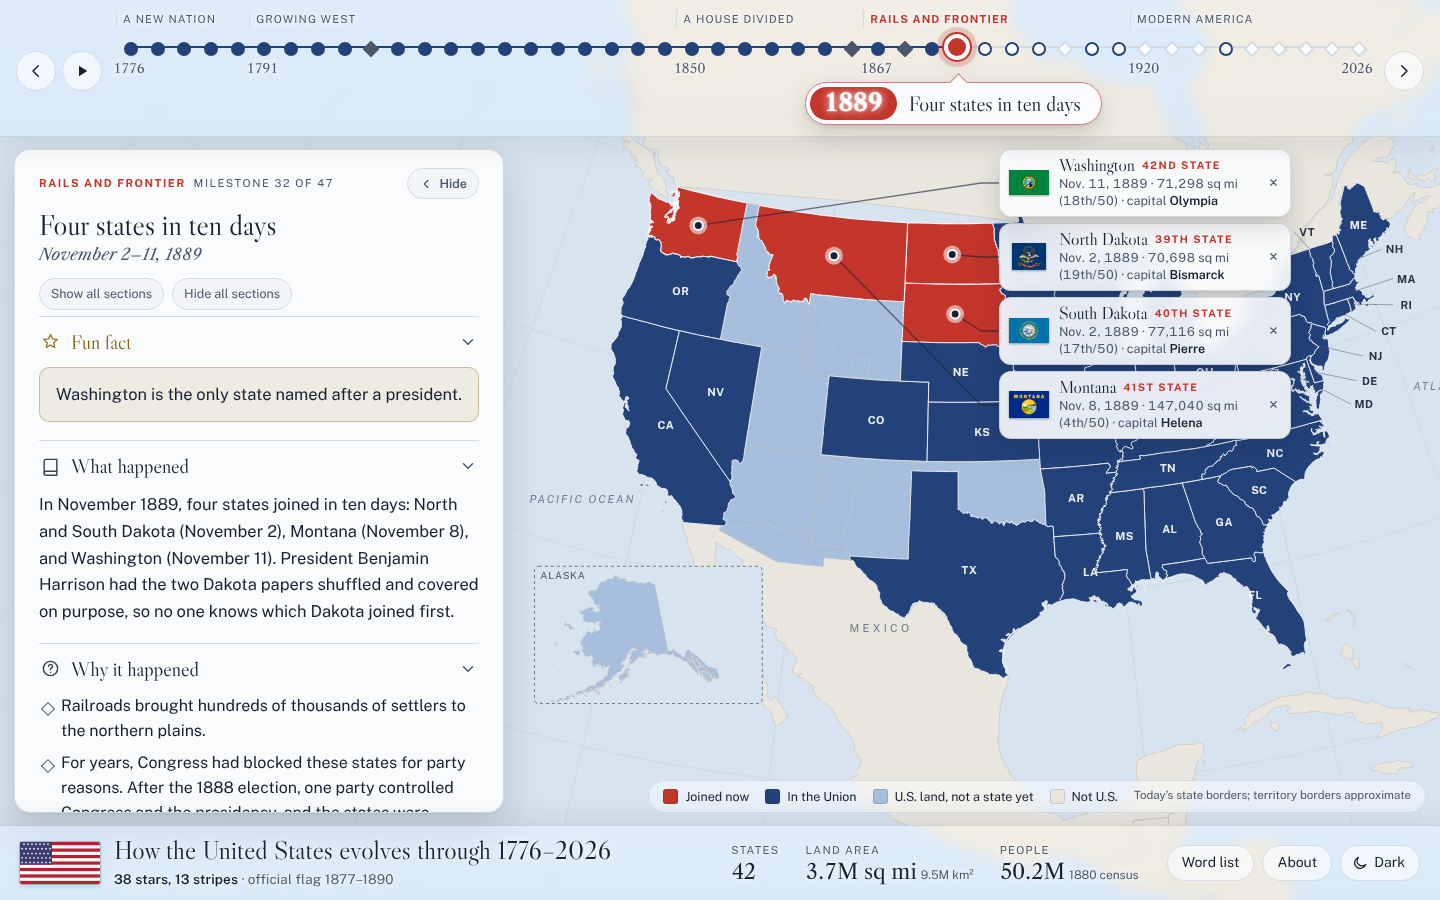
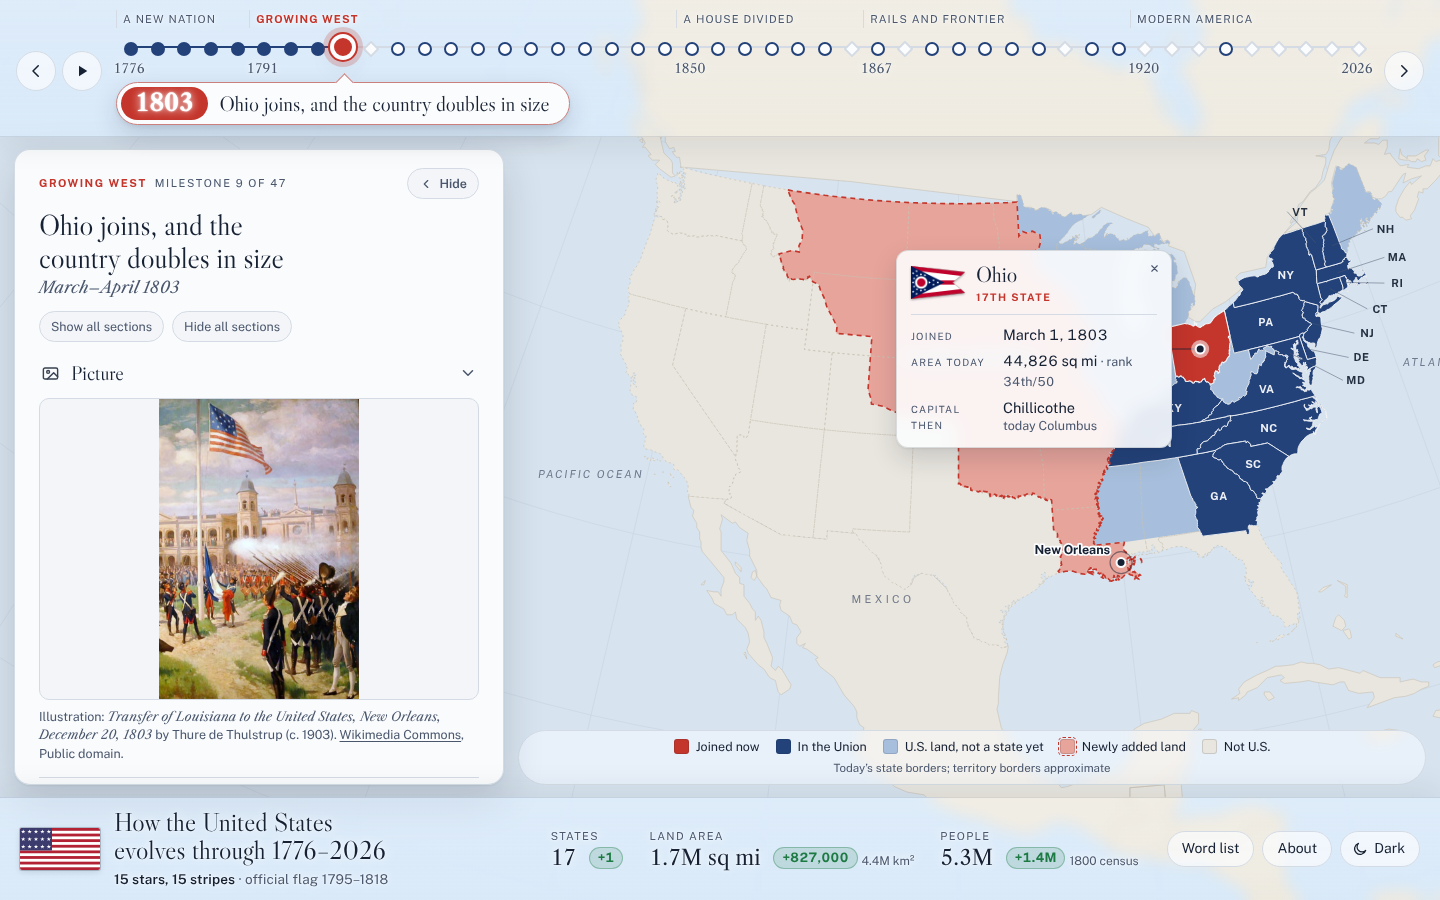
Show growth since the last milestone in the status bar
Next to each count in the bottom status bar, a green "+" badge shows
how much it grew since the previous milestone:
- States: new states joined (for example, +4 in 1889).
- Land area: square miles added by acquisitions, rounded to the
  nearest thousand (+827,000 in 1803). The 2026 total is a newer
  measurement of the same land, so it gets no badge.
- People: the change between the census counts (or estimates) in use
  at the two milestones (+1.4M in 1803).
Each badge has a tooltip that explains it. A new --grow color token
keeps the green readable in light and dark modes. On phones the badges
sit under the numbers.

Claude-Session: https://claude.ai/code/session_019zRrgJDS26ZMEPvqq3vbkH

diff --git a/build/app.html b/build/app.html
@@ -28,6 +28,7 @@
   --terr-new: #e7a49b;
   --sec: #6f7580;
   --gold: #876511;
+  --grow: #1d7a43;
   --progress: #23427a;
   --cost: #9b3b31;
   --focus: #d89b00;
@@ -43,7 +44,7 @@
     --paper: #0e1522; --sheet: #121b2a; --ink: #e7ecf3; --ink-2: #a4afc1; --rule: #283449;
     --water: #0c1827; --grat: #1a2a3e; --land: #1f2735; --land-edge: #364257;
     --union: #5d86c8; --union-ink: #0b1220; --union-edge: #0e1522; --new: #ff6b5d;
-    --terr: #39587f; --terr-new: #7a3b37; --sec: #8b919c; --gold: #d9b45d; --progress: #93b3e8; --cost: #f1958a;
+    --terr: #39587f; --terr-new: #7a3b37; --sec: #8b919c; --gold: #d9b45d; --grow: #63d18f; --progress: #93b3e8; --cost: #f1958a;
     --focus: #f5c242; --shadow: 0 1px 2px rgb(0 0 0 / .3), 0 8px 24px rgb(0 0 0 / .35);
     color-scheme: dark;
   }
@@ -52,7 +53,7 @@
   --paper: #0e1522; --sheet: #121b2a; --ink: #e7ecf3; --ink-2: #a4afc1; --rule: #283449;
   --water: #0c1827; --grat: #1a2a3e; --land: #1f2735; --land-edge: #364257;
   --union: #5d86c8; --union-ink: #0b1220; --union-edge: #0e1522; --new: #ff6b5d;
-  --terr: #39587f; --terr-new: #7a3b37; --sec: #8b919c; --gold: #d9b45d; --progress: #93b3e8; --cost: #f1958a;
+  --terr: #39587f; --terr-new: #7a3b37; --sec: #8b919c; --gold: #d9b45d; --grow: #63d18f; --progress: #93b3e8; --cost: #f1958a;
   --focus: #f5c242; --shadow: 0 1px 2px rgb(0 0 0 / .3), 0 8px 24px rgb(0 0 0 / .35);
   color-scheme: dark;
 }
@@ -105,6 +106,14 @@ a { color: inherit; }
 .stats dt { font-size: 11px; text-transform: uppercase; letter-spacing: .12em; color: var(--ink-2); }
 .stats dd { margin: 0; font: 400 21px/1.2 var(--f-serif); font-variant-numeric: lining-nums tabular-nums; white-space: nowrap; }
 .stats dd small { font: 400 12px var(--f-body); color: var(--ink-2); margin-left: 4px; }
+.delta {
+  display: inline-block; margin-left: 7px; padding: 1px 8px 2px; border-radius: 999px; vertical-align: 3px;
+  background: color-mix(in srgb, var(--grow) 15%, transparent); color: var(--grow);
+  border: 1px solid color-mix(in srgb, var(--grow) 35%, transparent);
+  font: 700 13px/1.35 var(--f-body); font-variant-numeric: tabular-nums; text-shadow: none;
+  animation: deltain .5s ease-out both;
+}
+@keyframes deltain { from { opacity: 0; transform: translateY(4px); } to { opacity: 1; transform: none; } }
 .tools { display: flex; gap: 8px; }
 .btn-quiet {
   border: 1px solid var(--rule); background: var(--sheet); border-radius: 999px;
@@ -426,6 +435,7 @@ ul.why li::before { content: ""; position: absolute; left: 4px; top: .62em; widt
   .stats { margin-left: 0; width: 100%; display: grid; grid-template-columns: repeat(3, minmax(0, 1fr)); gap: 10px; }
   .stats dd { font-size: 18px; }
   .stats dd small { display: block; margin: 0; }
+  .delta { display: table; margin: 3px 0 0; vertical-align: 0; font-size: 12px; }
   .tools { width: 100%; justify-content: flex-start; }
   .top { padding-left: max(16px, env(safe-area-inset-left, 0px)); padding-right: max(16px, env(safe-area-inset-right, 0px)); }
   .brand { flex-basis: 100%; align-items: flex-start; }
@@ -649,19 +659,33 @@ function showFlag(s) {
 }
 
 // ---------- stats ----------
-function stats(s) {
+// states, land area and people at a milestone (area counts only the acquisitions made by then)
+function totals(s) {
   const n = Math.max(13, Object.keys(states).filter(p => states[p][1] <= s.date).length);
-  $('#st-states').textContent = n;
   let sq = 0, any = false;
   for (const a of Object.values(acq)) if (a.date <= s.date) { sq += a.sqmi; any = true; }
-  if (s.id === '2026') sq = 3796742;
-  $('#st-area').innerHTML = any
-    ? `${(sq / 1e6).toFixed(sq < 1e6 ? 2 : 1)}M sq mi<small>${(sq * 2.58999 / 1e6).toFixed(1)}M km²</small>`
-    : `<small style="margin:0">not yet set by treaty</small>`;
   const y = s.date.slice(0, 4);
   let row = pop[0];
   for (const r of pop) if (r[0] <= y) row = r;
-  $('#st-pop').innerHTML = `${row[1].toFixed(1)}M<small>${row[2] ? row[0] + ' est.' : row[0] + ' census'}</small>`;
+  return { n, sq, any, row };
+}
+// a green "+" badge for growth since the previous milestone
+function delta(text, title) {
+  return ` <b class="delta" title="${esc(title)}">+${text}</b>`;
+}
+function stats(s) {
+  const t = totals(s), prevStop = stops[cur - 1], p = prevStop ? totals(prevStop) : null;
+  const since = prevStop ? `since the previous milestone (${prevStop.label})` : '';
+  const dn = p ? t.n - p.n : 0;
+  $('#st-states').innerHTML = t.n + (dn > 0 ? delta(dn, `${dn} more state${dn > 1 ? 's' : ''} ${since}`) : '');
+  // 2026 shows today's official total, a newer measurement of the same land (no new land is added)
+  const sq = s.id === '2026' ? 3796742 : t.sq, dsq = p ? t.sq - p.sq : 0;
+  const dsqTxt = (Math.round(dsq / 1000) * 1000).toLocaleString('en-US');
+  $('#st-area').innerHTML = t.any
+    ? `${(sq / 1e6).toFixed(sq < 1e6 ? 2 : 1)}M sq mi${dsq > 0 ? delta(dsqTxt, `About ${dsqTxt} square miles of land added ${since}`) : ''}<small>${(sq * 2.58999 / 1e6).toFixed(1)}M km²</small>`
+    : `<small style="margin:0">not yet set by treaty</small>`;
+  const dp = p ? +(t.row[1] - p.row[1]).toFixed(1) : 0;
+  $('#st-pop').innerHTML = `${t.row[1].toFixed(1)}M${dp > 0 ? delta(dp.toFixed(1) + 'M', `About ${dp.toFixed(1)} million more people ${since}: ${p.row[0]} ${p.row[2] ? 'estimate' : 'census'} to ${t.row[0]} ${t.row[2] ? 'estimate' : 'census'}`) : ''}<small>${t.row[2] ? t.row[0] + ' est.' : t.row[0] + ' census'}</small>`;
 }
 
 // ---------- map ----------

diff --git a/index.html b/index.html
@@ -34,6 +34,7 @@
   --terr-new: #e7a49b;
   --sec: #6f7580;
   --gold: #876511;
+  --grow: #1d7a43;
   --progress: #23427a;
   --cost: #9b3b31;
   --focus: #d89b00;
@@ -49,7 +50,7 @@
     --paper: #0e1522; --sheet: #121b2a; --ink: #e7ecf3; --ink-2: #a4afc1; --rule: #283449;
     --water: #0c1827; --grat: #1a2a3e; --land: #1f2735; --land-edge: #364257;
     --union: #5d86c8; --union-ink: #0b1220; --union-edge: #0e1522; --new: #ff6b5d;
-    --terr: #39587f; --terr-new: #7a3b37; --sec: #8b919c; --gold: #d9b45d; --progress: #93b3e8; --cost: #f1958a;
+    --terr: #39587f; --terr-new: #7a3b37; --sec: #8b919c; --gold: #d9b45d; --grow: #63d18f; --progress: #93b3e8; --cost: #f1958a;
     --focus: #f5c242; --shadow: 0 1px 2px rgb(0 0 0 / .3), 0 8px 24px rgb(0 0 0 / .35);
     color-scheme: dark;
   }
@@ -58,7 +59,7 @@
   --paper: #0e1522; --sheet: #121b2a; --ink: #e7ecf3; --ink-2: #a4afc1; --rule: #283449;
   --water: #0c1827; --grat: #1a2a3e; --land: #1f2735; --land-edge: #364257;
   --union: #5d86c8; --union-ink: #0b1220; --union-edge: #0e1522; --new: #ff6b5d;
-  --terr: #39587f; --terr-new: #7a3b37; --sec: #8b919c; --gold: #d9b45d; --progress: #93b3e8; --cost: #f1958a;
+  --terr: #39587f; --terr-new: #7a3b37; --sec: #8b919c; --gold: #d9b45d; --grow: #63d18f; --progress: #93b3e8; --cost: #f1958a;
   --focus: #f5c242; --shadow: 0 1px 2px rgb(0 0 0 / .3), 0 8px 24px rgb(0 0 0 / .35);
   color-scheme: dark;
 }
@@ -111,6 +112,14 @@ a { color: inherit; }
 .stats dt { font-size: 11px; text-transform: uppercase; letter-spacing: .12em; color: var(--ink-2); }
 .stats dd { margin: 0; font: 400 21px/1.2 var(--f-serif); font-variant-numeric: lining-nums tabular-nums; white-space: nowrap; }
 .stats dd small { font: 400 12px var(--f-body); color: var(--ink-2); margin-left: 4px; }
+.delta {
+  display: inline-block; margin-left: 7px; padding: 1px 8px 2px; border-radius: 999px; vertical-align: 3px;
+  background: color-mix(in srgb, var(--grow) 15%, transparent); color: var(--grow);
+  border: 1px solid color-mix(in srgb, var(--grow) 35%, transparent);
+  font: 700 13px/1.35 var(--f-body); font-variant-numeric: tabular-nums; text-shadow: none;
+  animation: deltain .5s ease-out both;
+}
+@keyframes deltain { from { opacity: 0; transform: translateY(4px); } to { opacity: 1; transform: none; } }
 .tools { display: flex; gap: 8px; }
 .btn-quiet {
   border: 1px solid var(--rule); background: var(--sheet); border-radius: 999px;
@@ -432,6 +441,7 @@ ul.why li::before { content: ""; position: absolute; left: 4px; top: .62em; widt
   .stats { margin-left: 0; width: 100%; display: grid; grid-template-columns: repeat(3, minmax(0, 1fr)); gap: 10px; }
   .stats dd { font-size: 18px; }
   .stats dd small { display: block; margin: 0; }
+  .delta { display: table; margin: 3px 0 0; vertical-align: 0; font-size: 12px; }
   .tools { width: 100%; justify-content: flex-start; }
   .top { padding-left: max(16px, env(safe-area-inset-left, 0px)); padding-right: max(16px, env(safe-area-inset-right, 0px)); }
   .brand { flex-basis: 100%; align-items: flex-start; }
@@ -821,19 +831,33 @@ function showFlag(s) {
 }
 
 // ---------- stats ----------
-function stats(s) {
+// states, land area and people at a milestone (area counts only the acquisitions made by then)
+function totals(s) {
   const n = Math.max(13, Object.keys(states).filter(p => states[p][1] <= s.date).length);
-  $('#st-states').textContent = n;
   let sq = 0, any = false;
   for (const a of Object.values(acq)) if (a.date <= s.date) { sq += a.sqmi; any = true; }
-  if (s.id === '2026') sq = 3796742;
-  $('#st-area').innerHTML = any
-    ? `${(sq / 1e6).toFixed(sq < 1e6 ? 2 : 1)}M sq mi<small>${(sq * 2.58999 / 1e6).toFixed(1)}M km²</small>`
-    : `<small style="margin:0">not yet set by treaty</small>`;
   const y = s.date.slice(0, 4);
   let row = pop[0];
   for (const r of pop) if (r[0] <= y) row = r;
-  $('#st-pop').innerHTML = `${row[1].toFixed(1)}M<small>${row[2] ? row[0] + ' est.' : row[0] + ' census'}</small>`;
+  return { n, sq, any, row };
+}
+// a green "+" badge for growth since the previous milestone
+function delta(text, title) {
+  return ` <b class="delta" title="${esc(title)}">+${text}</b>`;
+}
+function stats(s) {
+  const t = totals(s), prevStop = stops[cur - 1], p = prevStop ? totals(prevStop) : null;
+  const since = prevStop ? `since the previous milestone (${prevStop.label})` : '';
+  const dn = p ? t.n - p.n : 0;
+  $('#st-states').innerHTML = t.n + (dn > 0 ? delta(dn, `${dn} more state${dn > 1 ? 's' : ''} ${since}`) : '');
+  // 2026 shows today's official total, a newer measurement of the same land (no new land is added)
+  const sq = s.id === '2026' ? 3796742 : t.sq, dsq = p ? t.sq - p.sq : 0;
+  const dsqTxt = (Math.round(dsq / 1000) * 1000).toLocaleString('en-US');
+  $('#st-area').innerHTML = t.any
+    ? `${(sq / 1e6).toFixed(sq < 1e6 ? 2 : 1)}M sq mi${dsq > 0 ? delta(dsqTxt, `About ${dsqTxt} square miles of land added ${since}`) : ''}<small>${(sq * 2.58999 / 1e6).toFixed(1)}M km²</small>`
+    : `<small style="margin:0">not yet set by treaty</small>`;
+  const dp = p ? +(t.row[1] - p.row[1]).toFixed(1) : 0;
+  $('#st-pop').innerHTML = `${t.row[1].toFixed(1)}M${dp > 0 ? delta(dp.toFixed(1) + 'M', `About ${dp.toFixed(1)} million more people ${since}: ${p.row[0]} ${p.row[2] ? 'estimate' : 'census'} to ${t.row[0]} ${t.row[2] ? 'estimate' : 'census'}`) : ''}<small>${t.row[2] ? t.row[0] + ' est.' : t.row[0] + ' census'}</small>`;
 }
 
 // ---------- map ----------

diff --git a/README.md b/README.md
@@ -22,7 +22,7 @@ It is written for a general audience and for people learning English. Each miles
 - **A fun fact for every milestone,** shown just below the picture, to make each moment easy to remember. For example: the Wright brothers tossed a coin to decide who would fly first.
 - **One key person per milestone,** tagged by field: politics, economy or science.
 - **Written for English learners.** Sentences are short and plain. 41 harder words, such as *ratify*, *annex* and *suffrage*, show a simple meaning when tapped. A word list collects them all.
-- **A timeline slider across the top** with previous/next buttons, autoplay and keyboard navigation (← →). Under the slider's handle, a large caption shows the milestone's year and its one-line title, so the date and the headline are read in one place. A status bar along the bottom shows the flag of the day and the number of states, land area and population. Both bars are see-through frosted glass, so the map shows through them. 
+- **A timeline slider across the top** with previous/next buttons, autoplay and keyboard navigation (← →). Under the slider's handle, a large caption shows the milestone's year and its one-line title, so the date and the headline are read in one place. A status bar along the bottom shows the flag of the day and the number of states, land area and population, with green “+” badges showing how much each grew since the previous milestone (for example, +1 state, +827,000 sq mi, +1.4M people in 1803). Both bars are see-through frosted glass, so the map shows through them. 
 - **Pictures with credits.** Illustrations and portraits come from Wikimedia Commons. Each one shows its title, artist, date, license and a link to its source page.
 - **Easy to run and share.** It is a single static page with no server and no build step needed to view it. It has light and dark modes, with a switch in the top-right corner, and it works on phones. Each milestone has its own link, for example `index.html#1803`.
 
